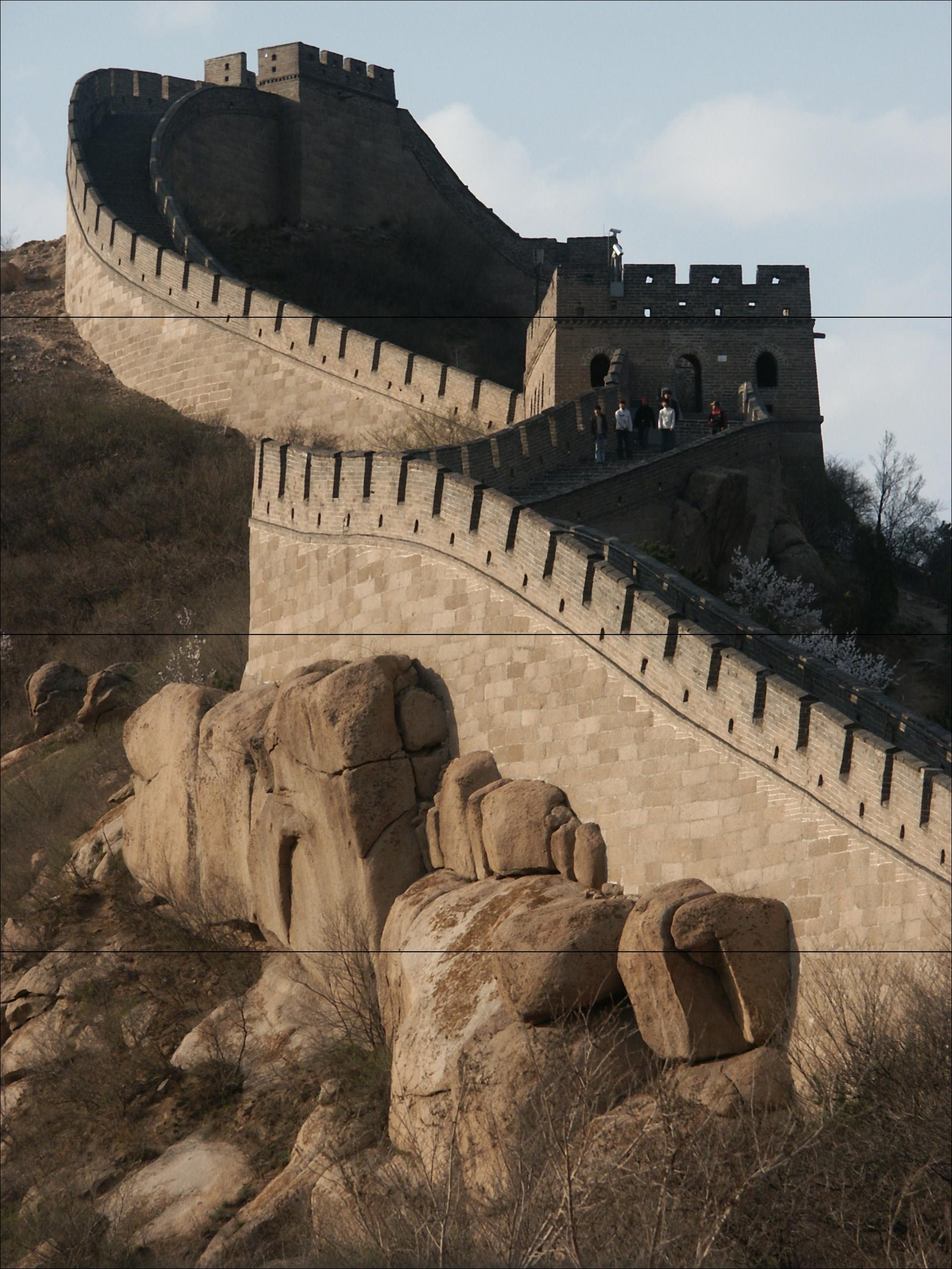
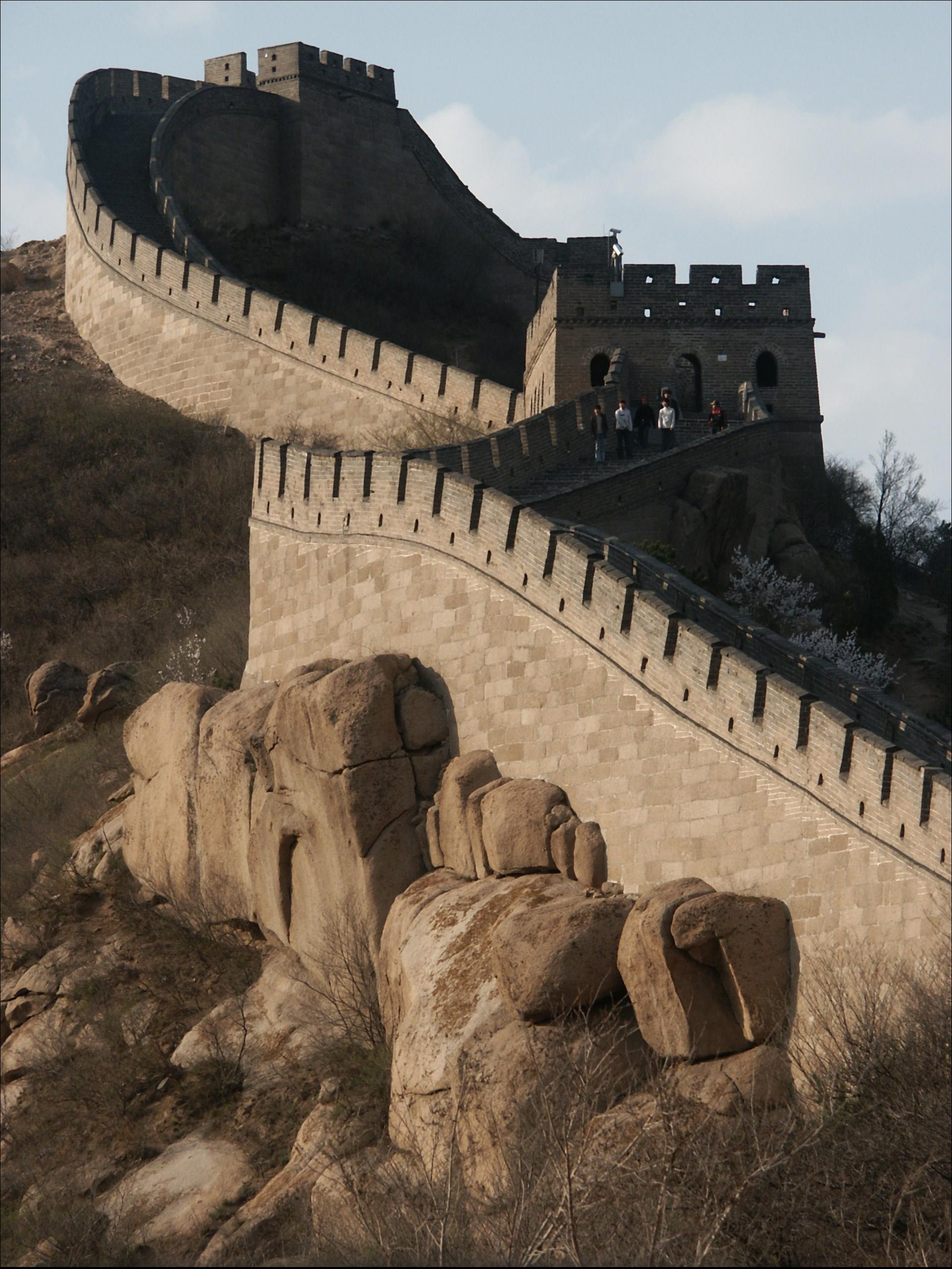
No more black lines

diff --git a/MPI_Median.cpp b/MPI_Median.cpp
@@ -76,82 +76,123 @@ void Master ()
   {
     if (mod_check > 0)
     {
-      y_portions[i] = int(Input.Height/(numprocs-1)) + 1;
+
+      if(i==(numprocs-2) || i ==0)
+      {
+        y_portions[i] = int(Input.Height/(numprocs-1)) + 1 + (int)WINDOW_Y/2;
+      }
+      else
+        y_portions[i] = int(Input.Height/(numprocs-1)) + 1 + 2*((int)WINDOW_Y/2);
+
       mod_check--;
     }
-    else y_portions[i] = int(Input.Height/(numprocs-1));
+    else
+    {
+      if (i==(numprocs-2) || i ==0)
+      {
+        y_portions[i] = int(Input.Height/(numprocs-1)) + (int)WINDOW_Y/2;
+      }
+      else
+        y_portions[i] = int(Input.Height/(numprocs-1)) + 2*((int)WINDOW_Y/2);
+    }
   }
 
   MPI_Status stat; //! stat: Status of the MPI application
   boolean ack = false;
   //Telling slaves what to expect
   int  j;             //! j: Loop counter
+  int largest = 0;
   for(j = 1; j < numprocs; j++)
   {
     int dimensions[DIMS] = {y_portions[j-1] , Input.Width*Input.Components, Input.Components};
+    if (y_portions[j-1] > largest){
+        largest = y_portions[j-1];
+    }
     MPI_Send(dimensions, DIMS, MPI_INT, j, TAG, MPI_COMM_WORLD);
     MPI_Recv(dimensions, DIMS, MPI_INT, j, TAG, MPI_COMM_WORLD, &stat);
     printf("Process %d received a height of %d and length of %d pixels\n", j, dimensions[0], dimensions[1]/Input.Components);
   }
   printf("\n");
 
-  unsigned char slave [y_portions[0]][Input.Width*Input.Components];
 
   int indexer = 0;
+
   for (int proc = 0; proc < numprocs-1; proc++)
   {
+    unsigned char slave [y_portions[proc]][Input.Width*Input.Components];
     for(int j = 0; j < y_portions[proc]; j++)
     {
       if(proc > 0 && j ==0)
-      {
-        indexer = indexer + y_portions[proc-1]; //TODO: If the last j is unassigned make it -1
-      }
-      for (int i =0; i < Input.Width*Input.Components; i++)
-      {
-        slave[j][i] = Input.Rows[j+indexer][i];
-      }
-    }
+        indexer = indexer + y_portions[proc-1] - 2*(WINDOW_Y/2);//TODO: If the last j is unassigned make it -1
 
-    //TODO: Send to slave
+      for (int i =0; i < Input.Width*Input.Components; i++)
+        slave[j][i] = Input.Rows[j+indexer][i];
+    }
+    printf("Indexer: %d\n", indexer);
+
     int size = sizeof(unsigned char)*y_portions[proc]*Input.Width*Input.Components;
     MPI_Send(slave, size, MPI_CHAR, proc+1, TAG, MPI_COMM_WORLD);
     MPI_Recv(&ack, 1, MPI_CHAR, proc+1, TAG, MPI_COMM_WORLD, &stat);
     if (ack)
-    {
       printf("Data partition %d successful\n", proc+1);
-    }
-
   }
-  //printf("Waiting for slavery to be abolished...\n");
+  // Last array not working
+  // Size size chnaged, getting the values back might be an issue
+  // to output
   indexer= 0;
   int flag =0;
   boolean done =false;
-  //int counter = 0;
+  tic();
+
   for (j=1; j<numprocs; j++)
   {
-  // This is blocking: normally one would use MPI_Iprobe, with MPI_ANY_SOURCE,
-
+    unsigned char slave [y_portions[j-1]][Input.Width*Input.Components];
+    // This is blocking: normally one would use MPI_Iprobe, with MPI_ANY_SOURCE,
     MPI_Recv(slave, y_portions[j-1]*Input.Width*Input.Components, MPI_CHAR, j, TAG, MPI_COMM_WORLD, &stat);
-
     printf("%d per cent complete\n", (j)*100/(numprocs-1));
+/*
     for(int y = 0; y < y_portions[j-1]; y++)
     {
       if (j > 1 && y ==0)
-      {
         indexer += y_portions[j-2];
-      }
+
       for(int x = 0; x < Input.Width*Input.Components; x++)
-      {
         Output.Rows[y+indexer][x] = slave[y][x];
+    }
+*/
+    if (j==1)
+    {
+      for(int y = 0; y < y_portions[j-1]- (int)WINDOW_Y/2; y++)
+      {
+        for(int x = 0; x < Input.Width*Input.Components; x++)
+          Output.Rows[y][x] = slave[y][x];
+      }
+    }
+    else if(j==numprocs-1)
+    {
+      for(int y = (int)WINDOW_Y/2; y < y_portions[j-1]; y++)
+      {
+        if (j > 1 && y == (int)WINDOW_Y/2)
+          indexer += y_portions[j-2]-WINDOW_Y;
+
+        for(int x = 0; x < Input.Width*Input.Components; x++)
+          Output.Rows[y+indexer][x] = slave[y][x];
+      }
+    }
+    else{
+      for(int y = (int)WINDOW_Y/2; y < y_portions[j-1]- (int)WINDOW_Y/2; y++)
+      {
+        if (j > 1 && y ==(int)WINDOW_Y/2)
+          indexer += y_portions[j-2]-WINDOW_Y;
+
+        for(int x = 0; x < Input.Width*Input.Components; x++)
+          Output.Rows[y+indexer][x] = slave[y][x];
       }
     }
     //printf("%d\n", counter);
   }
-  tic();
-
   printf("Time = %lg ms\n", (double)toc()/1e-3);
-
-  printf("End of example code...\n\n");
+  printf("Writing JPEG...\n\n");
 
 
   // Write the output image
@@ -175,7 +216,6 @@ void Slave(int ID)
   MPI_Status stat;
   unsigned char ack =0;
 
-
   // receive from rank 0 (master):
   // This is a blocking receive, which is typical for slaves.
   MPI_Recv(dimensions, 3, MPI_INT, 0, TAG, MPI_COMM_WORLD, &stat);
@@ -188,7 +228,6 @@ void Slave(int ID)
   ack = 1;
   MPI_Send(&ack, 1, MPI_CHAR, 0, TAG, MPI_COMM_WORLD);
 
-
   // Start of Distributed Median
   int window_y = WINDOW_Y;
   int window_x = WINDOW_X;
@@ -196,24 +235,19 @@ void Slave(int ID)
   int window [dimensions[2]][divisor];
   int counter  = 0;
   int colcheck =0;
-
   int x, y;
-
-
 
   for(y = int(window_y/2); y < dimensions[0]-int(window_y/2); y++)
   {
-    //printf("Hello %d\n", ID);
+
     for(x = int(window_x/2)*dimensions[2]; x < dimensions[1]-int(window_x/2)*dimensions[2]; x=x+dimensions[2])
     {
-      //printf("Hello %d\n", ID);
+
       int sum = 0;
       for(int j = -int(window_y/2); j<int(window_y/2)+1; j++)
       {
-        //printf("Hello %d\n", ID);
         for(int i = -int(window_x/2)*dimensions[2]; i<int(window_x/2)*dimensions[2]+1*dimensions[2]; i=i+dimensions[2])
         {
-          //printf("Hello %d\n", ID);
           for (int colour = 0; colour < dimensions[2]; colour++)
           {
             window[colour][counter] = input_arr[y+j][x+i+colour];
@@ -222,20 +256,16 @@ void Slave(int ID)
         }
       }
       for (int colour = 0; colour < dimensions[2]; colour++)
-      {
         sort(window[colour], window[colour]+sizeof(window[colour])/sizeof(window[colour][0]));
-      }
+
       for (int colour = 0; colour < dimensions[2]; colour++)
-      {
         out_arr[y][x+colour] = window[colour][int(counter/2)];
-      }
-          
+
       counter =0;
       //printf("Help me I want to die\n");
     }
   }
   MPI_Send(out_arr, dimensions[0]*dimensions[1], MPI_CHAR, 0, TAG, MPI_COMM_WORLD);
-
 }
 //------------------------------------------------------------------------------
 
